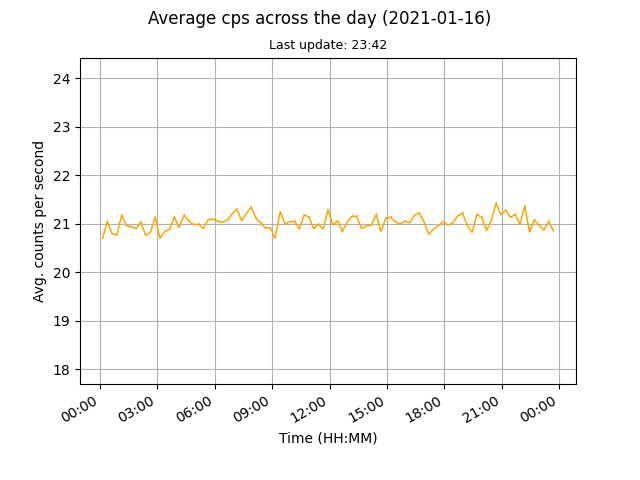
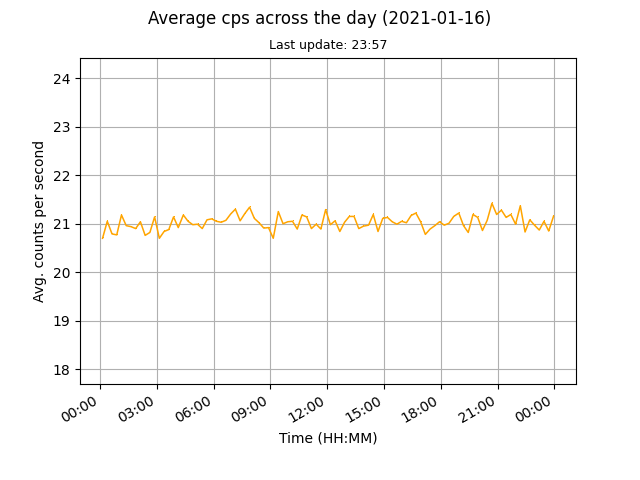
auto data update

diff --git a/docs/index.html b/docs/index.html
@@ -45,8 +45,8 @@
 	
 	<br>
 	
-	<p>Current counts per second (cps): 20.85</p>
-	<p>Last update: 2021-01-16, 23:43</p>
+	<p>Current counts per second (cps): 21.15</p>
+	<p>Last update: 2021-01-16, 23:58</p>
 
 	<p><a href="images/monthly.png"><img src="images/monthly.png" alt="Mothly avg cps data"></a><a href="images/daily.png"><img src="images/daily.png" alt="Daily avg cps data"></a></p>
 	
